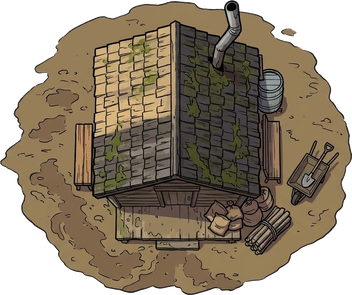
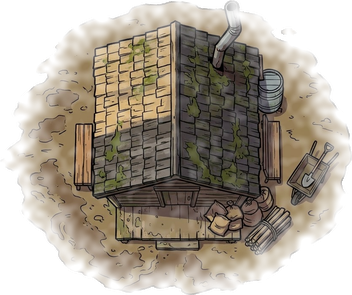
Klapperkiste: Weicher Schlammrand an der Hütte, Bauernhof mit Zufahrt
objekt.py kann mit --weicher-rand die Außenkante ins Gelände ausblenden.
Der Bauernhof steht nordöstlich der Weide und ist ein neues Ziel.

Claude-Session: https://claude.ai/code/session_01WRaeiUW1SS7Jnky8dn2gGr

diff --git a/klapperkiste/design/karte.js b/klapperkiste/design/karte.js
@@ -49,6 +49,10 @@ window.Karte = function (opt = {}) {
   // Opas Schuppen: Bild 14 m breit, linke obere Ecke bei (X, Y). Maße aus dem Bild vermessen.
   const SCHUPPEN = { X: 143.2, Y: 230, haus: [144.9, 231.1, 155.5, 238.9], bereich: [143, 230, 158, 252] };
   // Hütte am Feldrand: Bild 11 m breit, Mitte bei (x, y), Tür nach Süden zum Weg. Haus = Dach und Veranda.
+  // Bauernhof: Bild 32 m breit, linke obere Ecke bei (X, Y), Hoftor unten in der Mitte.
+  // Häuser: Wohnhaus (L-Form als zwei Rechtecke) und Scheune, aus dem Bild vermessen.
+  const HOF = { X: 260, Y: 141.25, haeuser: [[261.3, 141.25, 275.5, 149.3], [261.3, 141.25, 269.7, 156.2],
+    [276.4, 141.25, 290.6, 148.9]], bereich: [260, 141, 292, 159.5] };
   const HUETTE = { x: 244, y: 168, haus: [241.4, 164.1, 246.7, 170.9], bereich: [238.5, 163.4, 249.5, 172.6] };
   // Schrottplatz: Bild 26 m breit, Tor unten mittig bei (230, 50). Zaun und Hindernisse in Bildpixeln
   // des Ausschnitts (776 px breit) vermessen und hier in Meter umgerechnet.
@@ -76,7 +80,8 @@ window.Karte = function (opt = {}) {
   const FELDRAND = [[188, 170], [214, 173], [240, 177]]; // Stichweg nach Osten, endet am Feld
   // Weideweg: von der Kurve südlich der Weide um die Weide herum bis zum Feldrand (Rundweg)
   const WEIDEWEG = [[203, 272], [230, 292], [270, 296], [296, 270], [300, 230], [292, 200], [262, 190], [240, 177]];
-  const WEGE = [WEG, ABZWEIG, FELDRAND, WEIDEWEG];
+  const HOFWEG = [[276, 194.7], [276, 161]]; // Zufahrt vom Weideweg zum Hoftor
+  const WEGE = [WEG, ABZWEIG, FELDRAND, WEIDEWEG, HOFWEG];
   const WEG_BREITE = 4.5;
 
   function abstandStrecke(px, py, a, b) {
@@ -91,7 +96,7 @@ window.Karte = function (opt = {}) {
   }
   function frei(x, y, r) {
     if (abstandWeg(x, y) < WEG_BREITE / 2 + r + 1.5) return false;
-    for (const [bx0, by0, bx1, by1] of [SCHUPPEN.bereich, HUETTE.bereich]) {
+    for (const [bx0, by0, bx1, by1] of [SCHUPPEN.bereich, HUETTE.bereich, HOF.bereich]) {
       if (x > bx0 - r - 3 && x < bx1 + r + 3 && y > by0 - r - 3 && y < by1 + r + 3) return false;
     }
     if (x > SCHROTT.X - r - 3 && x < SCHROTT.X + SCHROTT.b + r + 3 && y > SCHROTT.Y - r - 3 && y < SCHROTT.Y + SCHROTT.h + r) return false;
@@ -236,7 +241,7 @@ window.Karte = function (opt = {}) {
         if ((cx - a[0]) * nx + (cy - a[1]) * ny < 0) { nx = -nx; ny = -ny; }
         schieb(nx, ny, tief);
       }
-      for (const [sx0, sy0, sx1, sy1] of [SCHUPPEN.haus, HUETTE.haus]) {
+      for (const [sx0, sy0, sx1, sy1] of [SCHUPPEN.haus, HUETTE.haus, ...HOF.haeuser]) {
         const hx = Math.max(sx0, Math.min(cx, sx1)), hy = Math.max(sy0, Math.min(cy, sy1));
         const d = Math.hypot(cx - hx, cy - hy);
         if (d < r && d > 0) schieb((cx - hx) / d, (cy - hy) / d, r - d);
@@ -482,7 +487,7 @@ window.Karte = function (opt = {}) {
   // --- Wegenetz, Ziele und Hindernisse ----------------------------------------
   // Das Auto fährt nur auf den Wegen. Die Linien werden in Punkte im Abstand von
   // etwa 2 m zerlegt; benachbarte Punkte und die Abzweigung sind verbunden.
-  const NETZ_LINIEN = [[[150, 243], ...WEG], ABZWEIG, FELDRAND, WEIDEWEG];
+  const NETZ_LINIEN = [[[150, 243], ...WEG], ABZWEIG, FELDRAND, WEIDEWEG, HOFWEG];
   const KNOTEN = [], NACHBARN = [];
   let HAUPT = 0; // Anzahl Punkte der Hauptlinie
   function netzBauen() {
@@ -521,6 +526,7 @@ window.Karte = function (opt = {}) {
     { id: "waldweg", name: "Waldweg", x: 60, y: 214, gebiet: "wald" },
     { id: "feldrand", name: "Feldrand", x: 240, y: 177, gebiet: "nord" },
     { id: "weide", name: "Weide", x: 298, y: 250, gebiet: "weide" },
+    { id: "bauernhof", name: "Bauernhof", x: 276, y: 162, gebiet: "nord" },
   ];
   const zielOffen = (z) => GEBIETE.find((g) => g.id === z.gebiet).offen;
   const zielErlaubt = (z) => !opt.zielErlaubt || opt.zielErlaubt(z);
@@ -738,6 +744,8 @@ window.Karte = function (opt = {}) {
     if (sch.img.complete && sch.img.naturalWidth) ctx.drawImage(sch.img, SCHUPPEN.X, SCHUPPEN.Y, sch.b, sch.h);
     const hu = OBJ.huette;
     if (hu && hu.img.complete && hu.img.naturalWidth) ctx.drawImage(hu.img, HUETTE.x - hu.b / 2, HUETTE.y - hu.h / 2, hu.b, hu.h);
+    const hof = OBJ.bauernhof;
+    if (hof && hof.img.complete && hof.img.naturalWidth) ctx.drawImage(hof.img, HOF.X, HOF.Y, hof.b, hof.h);
 
     // Route und Ziel
     const t = performance.now() / 1000;
@@ -839,8 +847,7 @@ window.Karte = function (opt = {}) {
       g.fill();
       const [mx0, my0, mx1, my1] = SCHUPPEN.haus;
       g.fillStyle = "#5a3d26"; g.fillRect(mx0 * k, my0 * k, (mx1 - mx0) * k, (my1 - my0) * k);
-      const [hx0, hy0, hx1, hy1] = HUETTE.haus;
-      g.fillRect(hx0 * k, hy0 * k, (hx1 - hx0) * k, (hy1 - hy0) * k);
+      for (const [hx0, hy0, hx1, hy1] of [HUETTE.haus, ...HOF.haeuser]) g.fillRect(hx0 * k, hy0 * k, (hx1 - hx0) * k, (hy1 - hy0) * k);
     }
     if (!miniGrund.mitNebel) { miniGrund.getContext("2d").drawImage(nebel, 0, 0, s, s); miniGrund.mitNebel = true; }
     mctx.drawImage(miniGrund, 0, 0);

diff --git a/klapperkiste/tools/einmalig/bauernhof_einpassen.py b/klapperkiste/tools/einmalig/bauernhof_einpassen.py
@@ -1,0 +1,86 @@
+"""Einmalige Bearbeitung: Bauernhof von oben freistellen.
+
+Zwischen Zaun, Gebäuden und Gemüsegarten liegen weiße Flächen, die vom Bildrand
+aus nicht erreichbar sind, und ein grauer Schlagschatten der Scheune. Große
+weiße Flächen (keine Glanzlichter, keine Hühner) und der von dort erreichbare
+graue Schatten werden durchsichtig, dort scheint im Spiel das Gras durch.
+
+Aufruf:
+  python klapperkiste/tools/einmalig/bauernhof_einpassen.py
+"""
+
+from __future__ import annotations
+
+import os
+import sys
+
+from PIL import Image, ImageChops, ImageDraw
+
+sys.path.insert(0, os.path.join(os.path.dirname(__file__), ".."))
+import objekt  # noqa: E402
+import teilwerk  # noqa: E402
+
+ROH = os.path.join(objekt.OBJEKT_DIR, "roh", "bauernhof.jpg")
+METER = 32
+MIN_FLAECHE = 1500  # kleinere weiße Flächen sind Hühner und Glanzlichter
+
+
+def grosse_weisse_flaechen_weg(bild: Image.Image) -> Image.Image:
+    weiss = bild.convert("RGB").point(lambda v: 255 if v > 225 else 0).convert("L")
+    weiss = ImageChops.darker(ImageChops.darker(*[bild.getchannel(k).point(lambda v: 255 if v > 225 else 0)
+                                                  for k in "RG"]), bild.getchannel("B").point(lambda v: 255 if v > 225 else 0))
+    weiss = ImageChops.multiply(weiss, bild.getchannel("A").point(lambda v: 255 if v > 128 else 0))
+    weg = Image.new("L", bild.size, 0)
+    arbeit = weiss.copy()
+    while True:
+        box = arbeit.getbbox()
+        if not box:
+            break
+        x0, y0, x1, y1 = box
+        start = next(((x, y0) for x in range(x0, x1) if arbeit.getpixel((x, y0)) == 255), None)
+        if start is None:
+            break
+        ImageDraw.floodfill(arbeit, start, 128, thresh=0)
+        flaeche = arbeit.point(lambda v: 255 if v == 128 else 0)
+        if flaeche.histogram()[255] >= MIN_FLAECHE:
+            weg = ImageChops.lighter(weg, flaeche)
+        arbeit = ImageChops.subtract(arbeit, arbeit.point(lambda v: 128 if v == 128 else 0))
+    bild.putalpha(ImageChops.subtract(bild.getchannel("A"), weg))
+    return bild
+
+
+def schatten_weg(bild: Image.Image) -> Image.Image:
+    """Grauen Schatten entfernen, der an irgendeine durchsichtige Fläche grenzt (auch
+    an die inneren, vom Zaun umschlossenen), ohne eine schwarze Kontur zu kreuzen."""
+    hsv = bild.convert("RGB").convert("HSV")
+    grau = ImageChops.multiply(hsv.getchannel("S").point(lambda v: 255 if v < 40 else 0),
+                               hsv.getchannel("V").point(lambda v: 255 if v > 120 else 0))
+    durch = bild.getchannel("A").point(lambda v: 255 if v < 128 else 0)
+    arbeit = ImageChops.lighter(grau, durch)
+    while True:
+        offen = ImageChops.multiply(arbeit.point(lambda v: 255 if v == 255 else 0), durch)
+        box = offen.getbbox()
+        if not box:
+            break
+        x0, y0, x1, y1 = box
+        start = next((x, y0) for x in range(x0, x1) if offen.getpixel((x, y0)) == 255)
+        ImageDraw.floodfill(arbeit, start, 128, thresh=0)
+    weg = arbeit.point(lambda v: 255 if v == 128 else 0)
+    bild.putalpha(ImageChops.subtract(bild.getchannel("A"), weg))
+    return bild
+
+
+def main() -> int:
+    bild = teilwerk.freistellen(Image.open(ROH), inseln=False)
+    bild = schatten_weg(grosse_weisse_flaechen_weg(bild))
+    bild = bild.crop(bild.getchannel("A").point(lambda a: 255 if a > 16 else 0).getbbox())
+    breite = METER * objekt.PX
+    bild = bild.resize((breite, round(bild.height * breite / bild.width)), Image.LANCZOS)
+    ziel = os.path.join(objekt.OBJEKT_DIR, "bauernhof.png")
+    bild.save(ziel)
+    print(f"{os.path.relpath(ziel)}: {bild.width}×{bild.height} px = {METER} m breit")
+    return 0
+
+
+if __name__ == "__main__":
+    sys.exit(main())

diff --git a/klapperkiste/tools/objekt.py b/klapperkiste/tools/objekt.py
@@ -5,7 +5,7 @@ Größe im Kartenmaßstab gebracht (32 px pro Meter). Den Schatten zeichnet das
 Spiel; die Probe zeigt ihn schon mit (nach unten rechts, Licht von oben links).
 
 Aufruf:
-  python klapperkiste/tools/objekt.py einpassen EINGABE NAME --meter 7 [--loch]
+  python klapperkiste/tools/objekt.py einpassen EINGABE NAME --meter 7 [--loch] [--weicher-rand 0.8]
   python klapperkiste/tools/objekt.py probe AUSGABE --boden gras_ruhig NAME[@x,y] ... [--auto auto.png]
 
 Ergebnis: assets/karte/objekte/NAME.png (Breite = --meter, Höhe im Verhältnis)
@@ -39,13 +39,34 @@ def loch_frei(teil: Image.Image, toleranz: int = 40) -> Image.Image:
     return teil
 
 
-def einpassen(eingabe: str, name: str, meter: float, dicker: float = 1.0, loch: bool = False) -> str:
+def weicher_rand(teil: Image.Image, breite_px: int, seed: int = 3) -> Image.Image:
+    """Außenkante über etwa breite_px ausblenden, leicht unregelmäßig (z. B. Schlamm
+    um die Hütte, der ins Gras übergeht). Die Mitte bleibt deckend."""
+    a = teil.getchannel("A").point(lambda v: 255 if v > 128 else 0)
+    k = max(3, breite_px) | 1  # so weit nach innen, dass auch die Umrisslinie verschwindet
+    innen = a.filter(ImageFilter.MinFilter(k))
+    rampe = innen.filter(ImageFilter.GaussianBlur(breite_px / 2))
+    rnd = random.Random(seed)
+    klein = Image.new("L", (max(1, teil.width // 6), max(1, teil.height // 6)))
+    klein.putdata([rnd.randint(0, 255) for _ in range(klein.width * klein.height)])
+    rauschen = klein.resize(teil.size, Image.BICUBIC).filter(ImageFilter.GaussianBlur(2))
+    # Rauschen um 128 verschiebt die Rampe ein wenig nach innen oder außen
+    rampe = ImageChops.add(rampe, rauschen.point(lambda v: max(0, v - 128) // 2))
+    rampe = ImageChops.subtract(rampe, rauschen.point(lambda v: max(0, 128 - v) // 2))
+    teil.putalpha(ImageChops.darker(teil.getchannel("A"), rampe))
+    return teil
+
+
+def einpassen(eingabe: str, name: str, meter: float, dicker: float = 1.0, loch: bool = False,
+              rand: float = 0.0) -> str:
     teil = teilwerk.freistellen(Image.open(eingabe), inseln=False)
     if loch:
         teil = loch_frei(teil)
     teil = teil.crop(teil.getchannel("A").point(lambda a: 255 if a > 16 else 0).getbbox())
     breite = round(meter * PX)
     teil = teil.resize((breite, round(teil.height * breite / teil.width * dicker)), Image.LANCZOS)
+    if rand:
+        teil = weicher_rand(teil, round(rand * PX))
     os.makedirs(OBJEKT_DIR, exist_ok=True)
     pfad = os.path.join(OBJEKT_DIR, f"{name}.png")
     teil.save(pfad)
@@ -108,6 +129,8 @@ def main(argv: list[str] | None = None) -> int:
     e.add_argument("--dicker", type=float, default=1.0,
                    help="Höhe im Bild strecken, damit dünne Dinge (Zaun) auf dem Handy sichtbar bleiben")
     e.add_argument("--loch", action="store_true", help="Weiße Fläche in der Mitte freistellen (Reifen)")
+    e.add_argument("--weicher-rand", type=float, default=0.0, metavar="METER",
+                   help="Außenkante über so viele Meter ins Gelände ausblenden (Schlamm, Erde)")
     pr = sub.add_parser("probe")
     pr.add_argument("ausgabe")
     pr.add_argument("objekte", nargs="+", help="NAME oder NAME@x,y (Meter), NAME! = unverändert")
@@ -116,7 +139,7 @@ def main(argv: list[str] | None = None) -> int:
     pr.add_argument("--auto")
     args = p.parse_args(argv)
     if args.befehl == "einpassen":
-        einpassen(args.eingabe, args.name, args.meter, args.dicker, args.loch)
+        einpassen(args.eingabe, args.name, args.meter, args.dicker, args.loch, args.weicher_rand)
     else:
         probe(args.ausgabe, args.boden, args.objekte, args.meter, args.auto)
     return 0

diff --git a/klapperkiste/tools/karte_daten.py b/klapperkiste/tools/karte_daten.py
@@ -29,7 +29,8 @@ ZIEL = os.path.join(ROOT, "design", "karte_daten.js")
 ZIEL_TEILE = os.path.join(ROOT, "design", "spielstart_teile.js")
 BODEN = ["gras_ruhig", "gras", "erde", "schotter"]
 OBJEKTE = ["laubbaum", "nadelbaum", "busch", "felsbrocken", "zaun", "schild", "schuppen", "schrottplatz",
-           "reifen", "batterie", "huette"]
+           "reifen", "batterie", "huette",
+           "bauernhof"]
 GRUND = {"rahmen": "bettgestell", "achseH": "rostachse", "achseV": "rostachse", "radH": "schubkarre",
          "radV": "schubkarre", "motor": "maeher", "energie": "giesskanne", "sitz": "kuechenstuhl",
          "lenkung": "fahrradlenker"}

diff --git a/klapperkiste/KARTE.md b/klapperkiste/KARTE.md
@@ -198,7 +198,11 @@ Hase 1,3 m, Schaf 2 m.
 
 - **Hütte am Feldrand** (`objekte/huette.png`, 11 m): steht am Ende des
   Stichwegs zum Feldrand, Tür zum Weg. Bäume halten Abstand, das Auto stößt
-  an Dach und Veranda.
-- **Bauernhof** an der Weide: erstes Bild war schräg von der Seite gezeichnet
-  (`objekte/roh/bauernhof_v1_schraeg.jpg`), passt nicht zur Draufsicht. Neu
-  erzeugen, streng von oben.
+  an Dach und Veranda. Der Schlamm drumherum läuft weich ins Gras aus
+  (`objekt.py einpassen … --weicher-rand 0.9`).
+- **Bauernhof** (`objekte/bauernhof.png`, 32 m, freigestellt mit
+  `tools/einmalig/bauernhof_einpassen.py`): nordöstlich der Weide, mit einer
+  Zufahrt vom Weideweg bis zum Hoftor und eigenem Ziel „Bauernhof“. Wohnhaus
+  und Scheune sind Hindernisse. Hier soll später Bäuerin Hilde wohnen. Das
+  erste Bild war schräg gezeichnet (`objekte/roh/bauernhof_v1_schraeg.jpg`)
+  und wird nicht verwendet.
